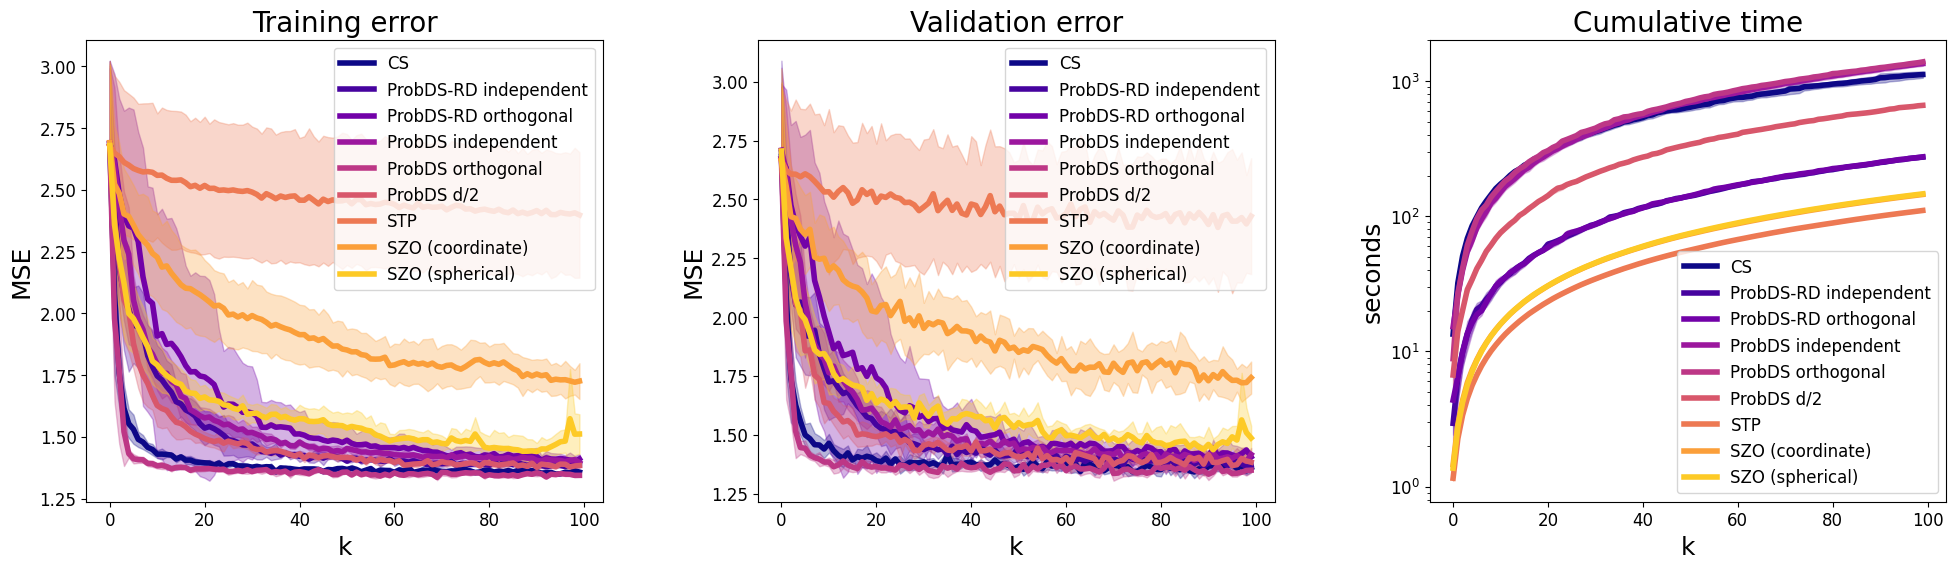
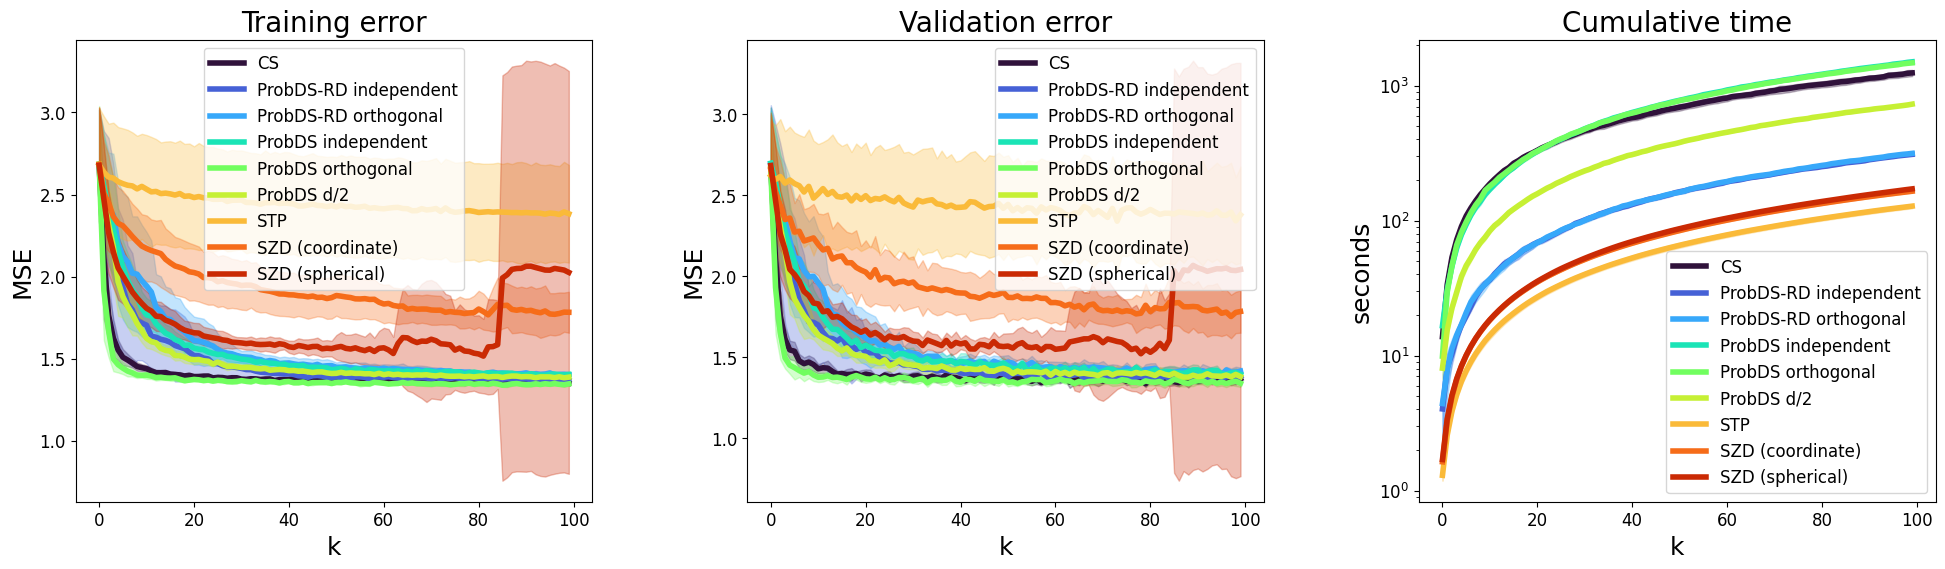
Updated other methods and experiments

diff --git a/paper_experiments/falkon_tuning/falkon_htru2.py b/paper_experiments/falkon_tuning/falkon_htru2.py
@@ -21,6 +21,11 @@ from szo import SZO
 
 from other_methods import GDS, GDSOptions, STP
 
+max_init = 20.0
+min_init = 18.0
+
+
+
 def mse_err(y_true, y_pred):
     return ((y_true - y_pred)**2).mean()
 
@@ -78,10 +83,10 @@ def stp_experiment(Xtr, Xte, ytr, yte, options, reps=5):
     init_config_state = np.random.RandomState(12)
     result = OptResult(T, reps)
     
-    optimizer = STP(init_alpha=10.0, options=options)
+    optimizer = STP(init_alpha=1.0, options=options)
     te_err = np.zeros(reps)
     for i in range(reps):
-        init_sigmas = init_config_state.rand(d) * (1.0 - 0.001) + 0.001
+        init_sigmas = init_config_state.rand(d) * (max_init - min_init) + min_init
         init_lam = init_config_state.rand(1) * (1e-5 - 1e-7) + 1e-7
         
         init_config = np.hstack((init_sigmas, init_lam))
@@ -95,22 +100,22 @@ def stp_experiment(Xtr, Xte, ytr, yte, options, reps=5):
             tr_err = evaluate_configuration(init_config, (data[0], data[0], data[2], data[2]))
             init_config = new_config
             result.append_result(i, t, it_time, tr_err, v_err)
-            print("[--] t: {}/{}\ttr_err: {}\tverr: {}\t|g|^2: {}".format(t, T, tr_err, v_err, np.linalg.norm(grad)**2))
+            print("[STP] t: {}/{}\ttr_err: {}\tverr: {}\t|g|^2: {}".format(t, T, tr_err, v_err, np.linalg.norm(grad)**2))
         optimizer.reset()
         print("-"*33)
         te_err[i] = evaluate_configuration(init_config, (Xtr, Xte, ytr, yte))
     return result, te_err 
 
-def ds_experiment(Xtr, Xte, ytr, yte, options, reps=5):
+def ds_experiment(Xtr, Xte, ytr, yte, options, reps=5, mname="DS"):
     d = Xtr.shape[1] 
     init_config_state = np.random.RandomState(12)
     
-    optimizer = GDS(init_alpha=10.0, options=options)
+    optimizer = GDS(init_alpha=1.0, options=options)
     
     result = OptResult(T, reps)
     te_err = np.zeros(reps)
     for i in range(reps):
-        init_sigmas = init_config_state.rand(d) * (1.0 - 0.001) + 0.001
+        init_sigmas = init_config_state.rand(d) * (max_init - min_init) + min_init
         init_lam = init_config_state.rand(1) * (1e-5 - 1e-7) + 1e-7
         
         init_config = np.hstack((init_sigmas, init_lam))
@@ -125,7 +130,7 @@ def ds_experiment(Xtr, Xte, ytr, yte, options, reps=5):
             v_err = evaluate_configuration(init_config, data)
             init_config = new_config
             result.append_result(i, t, it_time, tr_err, v_err)
-            print("[--] t: {}/{}\ttr_err: {}\tverr: {}\t|g|^2: {}".format(t, T, tr_err, v_err, np.linalg.norm(grad)**2))
+            print("[{}] t: {}/{}\ttr_err: {}\tverr: {}\t|g|^2: {}".format(mname, t, T, tr_err, v_err, np.linalg.norm(grad)**2))
         optimizer.reset()
         print("-"*33)
         te_err[i] = evaluate_configuration(init_config, (Xtr, Xte, ytr, yte))
@@ -133,18 +138,18 @@ def ds_experiment(Xtr, Xte, ytr, yte, options, reps=5):
 
 
 
-def szo_experiment(Xtr, Xte, ytr, yte, directions, l, reps=5):
+def szo_experiment(Xtr, Xte, ytr, yte, directions, l, reps=5, mname="SZD"):
     d = Xtr.shape[1] 
     assert l <= d
-    alpha = lambda k:  10/(np.sqrt(k)) #* 1e-1
-    h = lambda k : (1/k) #* 1e-1
+    alpha = lambda k: 100 * (k**(-1/2)) #* 100
+    h = lambda k :  1e-2#1/np.sqrt(k) #**2 #* 1e-1
     
     init_config_state = np.random.RandomState(12)
     optimizer = SZO(directions, d + 1, l, alpha, h)   
     result = OptResult(T, reps)
     te_err = np.zeros(reps)
     for i in range(reps):   
-        init_sigmas = init_config_state.rand(d) * (1.0 - 0.001) + 0.001
+        init_sigmas = init_config_state.rand(d) * (max_init - min_init) + min_init
         init_lam = init_config_state.rand(1) * (1e-5 - 1e-7) + 1e-7
         init_config = np.hstack((init_sigmas, init_lam))
         
@@ -156,43 +161,58 @@ def szo_experiment(Xtr, Xte, ytr, yte, directions, l, reps=5):
             tr_err = evaluate_configuration(init_config, (data[0], data[0], data[2], data[2]))
             init_config = new_config
             result.append_result(i, t, it_time, tr_err, fx)
-            print("[--] t: {}/{}\ttr_err: {}\tverr: {}".format(t, T, tr_err, fx))
+            print("[{}] t: {}/{}\ttr_err: {}\tverr: {}".format(mname, t, T, tr_err, fx))
         optimizer.reset()
         print("-"*33)
         te_err[i] = evaluate_configuration(init_config, (Xtr, Xte, ytr, yte))
     return result, te_err
 l = 4
-M = 100
-T = 100
+M = 20
+T = 30#100
 trsf = PositiveTransform(1e-9)
 
-reps = 10
+reps = 2
 Xtr, Xte, ytr, yte = load_data()
 
 _ = evaluate_configuration(np.array([1.0 for _ in range(Xtr.shape[1] + 1)]), (Xtr, Xte, ytr, yte))
 print("[--] Started...")
 
-comp_options = GDSOptions(9, alpha_max = 10000.0, exp_factor=2, cont_factor=0.5, gen_strat="compass")
+comp_options = GDSOptions(9, alpha_max = 10.0, exp_factor=2, cont_factor=0.5, gen_strat="compass")
 stp_options = GDSOptions(9, gen_strat="random_unit")
-sketch_unit_options = GDSOptions(9, alpha_max = 10000.0, exp_factor=2, cont_factor=0.5, gen_strat="random_unit", sketch=("gaussian", l))
-sketch_orth_options = GDSOptions(9, alpha_max = 10000.0, exp_factor=2, cont_factor=0.5, gen_strat="random_orth", sketch=("orthogonal", l))
-unit_options = GDSOptions(9, alpha_max = 10000.0, exp_factor=2, cont_factor=0.5, gen_strat="random_unit")
-orth_options = GDSOptions(9, alpha_max = 10000.0, exp_factor=2, cont_factor=0.5, gen_strat="random_orth")
-n_half_options = GDSOptions(9, alpha_max = 10000.0, exp_factor=2, cont_factor=0.5, gen_strat="n_half")
+sketch_unit_options = GDSOptions(9, alpha_max = 10.0, exp_factor=2, cont_factor=0.5, gen_strat="random_unit", sketch=("gaussian", l))
+sketch_orth_options = GDSOptions(9, alpha_max = 10.0, exp_factor=2, cont_factor=0.5, gen_strat="random_orth", sketch=("orthogonal", l))
+unit_options = GDSOptions(9, alpha_max = 10.0, exp_factor=2, cont_factor=0.5, gen_strat="random_unit")
+orth_options = GDSOptions(9, alpha_max = 10.0, exp_factor=2, cont_factor=0.5, gen_strat="random_orth")
+n_half_options = GDSOptions(9, alpha_max = 10.0, exp_factor=2, cont_factor=0.5, gen_strat="n_half")
 
-#
-#
-#
-#
-#
 
-szo_sph_ris, te_err = szo_experiment(Xtr, Xte, ytr, yte, "spherical", l, reps=reps)
+szo_sph_ris, te_err = szo_experiment(Xtr, Xte, ytr, yte, "spherical", l, reps=reps, mname="SZD-SP")
 store_results("szo_sph_htru2.log", szo_sph_ris)
 with open("szo_sph_te_htru2.log", "a") as f:
     for err in te_err:
         f.write("{}\n".format(err))
-#
-szo_sph_ris, te_err = szo_experiment(Xtr, Xte, ytr, yte, "coordinate", l, reps=reps)
+
+
+unit_ris, te_err = ds_experiment(Xtr, Xte, ytr, yte, unit_options, reps=reps, mname="PDS (gauss)")
+store_results("gauss_htru2.log", unit_ris)
+with open("gauss_te_htru2.log", "a") as f:
+    for err in te_err:
+        f.write("{}\n".format(err))
+
+sketch_unit_ris, te_err = ds_experiment(Xtr, Xte, ytr, yte, sketch_unit_options, reps=reps, mname="PDS-RD (gauss)")
+store_results("sk_gauss_htru2.log", sketch_unit_ris)
+with open("sk_gauss_te_htru2.log", "a") as f:
+    for err in te_err:
+        f.write("{}\n".format(err))
+
+sketch_orth_ris, te_err = ds_experiment(Xtr, Xte, ytr, yte, sketch_orth_options, reps=reps, mname="PDS-RD (orth)")
+store_results("sk_orth_htru2.log", sketch_orth_ris)
+with open("sk_orth_te_htru2.log", "a") as f:
+    for err in te_err:
+        f.write("{}\n".format(err))
+
+
+szo_sph_ris, te_err = szo_experiment(Xtr, Xte, ytr, yte, "coordinate", l, reps=reps, mname="SZD-CO")
 store_results("szo_coo_htru2.log", szo_sph_ris)
 with open("szo_coo_te_htru2.log", "a") as f:
     for err in te_err:
@@ -205,38 +225,21 @@ with open("stp_te_htru2.log", "a") as f:
         f.write("{}\n".format(err))
 
 
-unit_ris, te_err = ds_experiment(Xtr, Xte, ytr, yte, unit_options, reps=reps)
-store_results("gauss_htru2.log", unit_ris)
-with open("gauss_te_htru2.log", "a") as f:
-    for err in te_err:
-        f.write("{}\n".format(err))
 
-orth_ris, te_err = ds_experiment(Xtr, Xte, ytr, yte, orth_options, reps=reps)
+orth_ris, te_err = ds_experiment(Xtr, Xte, ytr, yte, orth_options, reps=reps, mname="PDS (orth)")
 store_results("orth_htru2.log", orth_ris)
 with open("orth_te_htru2.log", "a") as f:
     for err in te_err:
         f.write("{}\n".format(err))
 
-n_half_ris, te_err = ds_experiment(Xtr, Xte, ytr, yte, n_half_options, reps=reps)
+n_half_ris, te_err = ds_experiment(Xtr, Xte, ytr, yte, n_half_options, reps=reps, mname="PDS d/2")
 store_results("n_half_htru2.log", n_half_ris)
 with open("n_half_te_htru2.log", "a") as f:
     for err in te_err:
         f.write("{}\n".format(err))
 
 
-sketch_unit_ris, te_err = ds_experiment(Xtr, Xte, ytr, yte, sketch_unit_options, reps=reps)
-store_results("sk_gauss_htru2.log", sketch_unit_ris)
-with open("sk_gauss_te_htru2.log", "a") as f:
-    for err in te_err:
-        f.write("{}\n".format(err))
-#
-sketch_orth_ris, te_err = ds_experiment(Xtr, Xte, ytr, yte, sketch_orth_options, reps=reps)
-store_results("sk_orth_htru2.log", sketch_orth_ris)
-with open("sk_orth_te_htru2.log", "a") as f:
-    for err in te_err:
-        f.write("{}\n".format(err))
-
-comp_ris, te_err = ds_experiment(Xtr, Xte, ytr, yte, comp_options, reps=reps)
+comp_ris, te_err = ds_experiment(Xtr, Xte, ytr, yte, comp_options, reps=reps, mname="Compass")
 store_results("compass_htru2.log", comp_ris)
 with open("compass_te_htru2.log", "a") as f:
     for err in te_err:

diff --git a/paper_experiments/other_methods.py b/paper_experiments/other_methods.py
@@ -138,7 +138,7 @@ class GDS(Optimizer):
                 if value < fx - self.forcing_fun(self.alpha, self.D[i]):
                     self.alpha = min(self.alpha * self.exp_factor, self.alpha_max)
                     return x + self.alpha*self.D[i], 1
-            if self.alpha < 1e-5:
+            if self.alpha < 1e-6:
                 return x, 1
             self.alpha *= self.cont_factor
         
